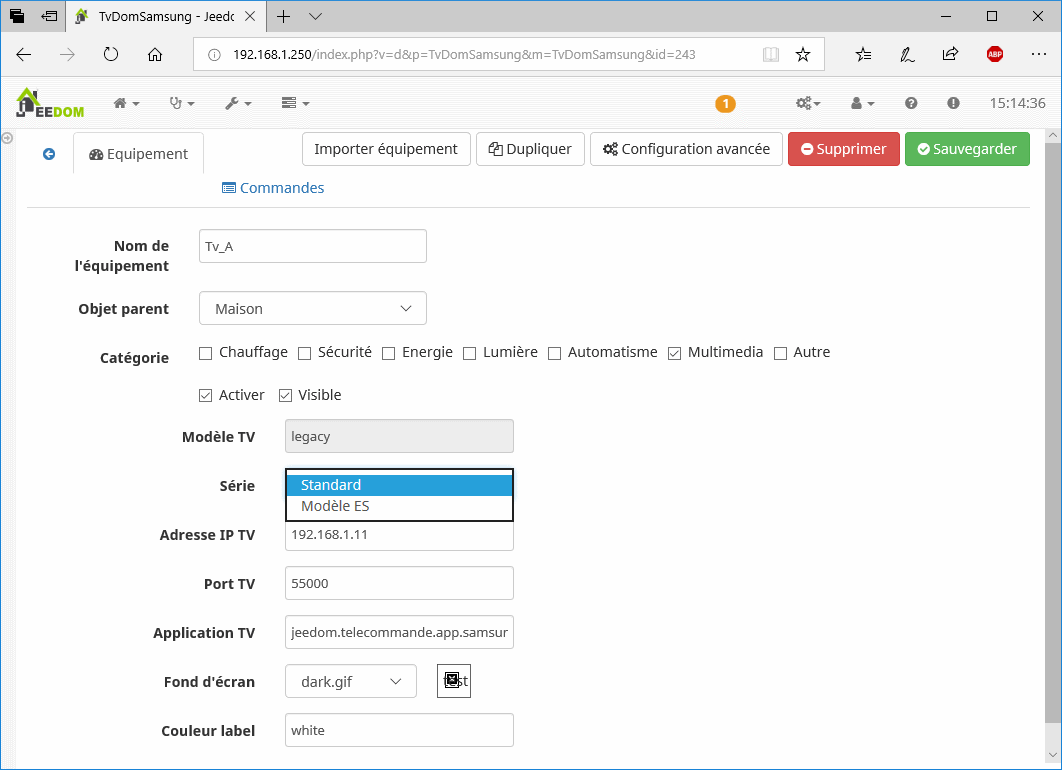
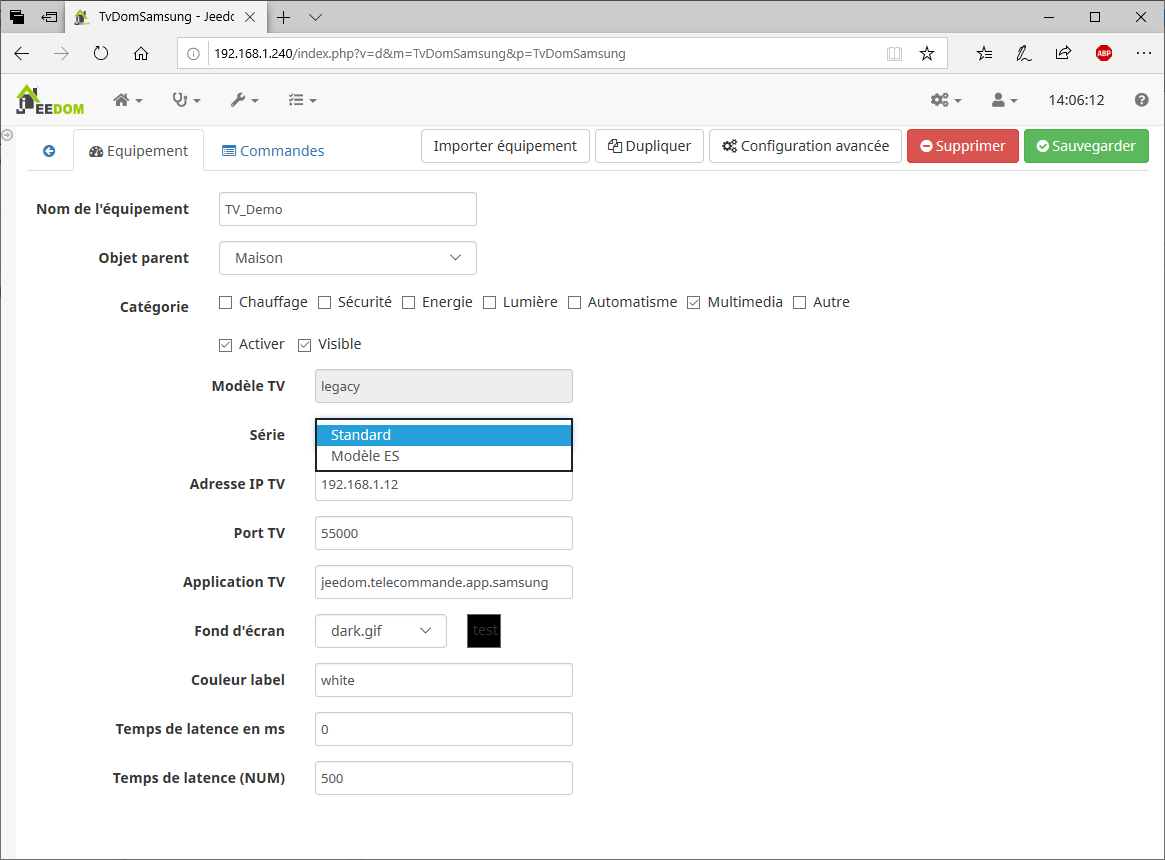
Ajout paramètre latence

diff --git a/fr_FR/index.md b/fr_FR/index.md
@@ -134,6 +134,18 @@ Pour l'instant seules deux séries sont définies. La boîte de sélection perme
 
   Permet de personnaliser al couleur des labels en conjonction avec le fond d'écran.
 
+- ***Temps de latence***
+
+  Il est possible d'envoyer une séquence de touches vers la Tv à partir d'un scénario (voir commande SendKey). 
+  Pour respecter un délai entre l'envoi de chaque touche, un temps de latence est nécessaire. Positionner dans ce paramètre le temps pour les touches non numériques de la télécommande, par exemple : SOURCE, GUIDE, ENTER, etc.
+
+- ***Temps de latence (NUM)***
+
+  Il est possible d'envoyer une séquence de touches vers la Tv à partir d'un scénario (voir commande SendKey). 
+  Pour respecter un délai entre l'envoi de chaque touche, un temps de latence est nécessaire. 
+
+  Positionner dans ce paramètre le temps pour les touches  numériques de la télécommande.
+
 - ***Commandes/Actions***
 
   Six commandes sont définies, elles permettent de piloter la SMART TV dans des scénarios.
@@ -206,6 +218,18 @@ Le panneau de configuration d'un modèle Tizen se présente ainsi :
 - ***Couleur label***
 
   Permet de personnaliser al couleur des labels en conjonction avec le fond d'écran.
+
+- ***Temps de latence***
+
+  Il est possible d'envoyer une séquence de touches vers la Tv à partir d'un scénario (voir commande SendKey). 
+  Pour respecter un délai entre l'envoi de chaque touche, un temps de latence est nécessaire. Positionner dans ce paramètre le temps pour les touches non numériques de la télécommande, par exemple : SOURCE, GUIDE, ENTER, etc.
+
+- ***Temps de latence (NUM)***
+
+  Il est possible d'envoyer une séquence de touches vers la Tv à partir d'un scénario (voir commande SendKey). 
+  Pour respecter un délai entre l'envoi de chaque touche, un temps de latence est nécessaire. 
+
+  Positionner dans ce paramètre le temps pour les touches  numériques de la télécommande.
 
 - ***Commandes/Actions***
 
@@ -550,6 +574,8 @@ Samsung a délivré une mise à jour du firmware de ses SmartTv modèle Tizen en
 
 Ceci a eu pour conséquence de rendre **incompatible la communication entre le plugin et la TV**.
 Ce problème est en cours d'étude.  Il n'est pas recommandé d'acquérir le plugin si vous avez installé le dernier firmware sur votre modèle Tizen.
+
+**Ce problème est résolu depuis la version V1.0.C de décembre 2018.**
 
 
 

diff --git a/en_US/index.md b/en_US/index.md
@@ -113,6 +113,14 @@ For the moment only two series are defined. The selection box allows you to choo
 
 - ***Label color***   Allows you to customize the color of the labels in conjunction with the wallpaper.
 
+- **Latency**
+
+  It is possible to send a key sequence to the TV from a scenario (see SendKey command).To respect a delay between the sending of each key, a latency time is necessary. Set the time in this parameter for the non-numeric keys on the remote control, for example: SOURCE, GUIDE, ENTER, etc.
+
+- **Latency (NUM)**
+
+  It is possible to send a key sequence to the TV from a scenario (see SendKey command).To respect a delay between the sending of each key, a latency time is necessary.In this parameter, set the time for the numeric keys of the remote control.
+
 - ***Controls / Actions*** Six commands are defined, they allow you to control the SMART TV in scenarios.
 
   `Activate`: only used to associate the widget on the dashboard Turn off: TV off command`

diff --git a/fr_FR/changelog.md b/fr_FR/changelog.md
@@ -1,5 +1,9 @@
 # **Change Log**
 
+# 1.0.I Version Beta
+
+- Ajout d'un paramètre de latence pour envoi séquence de touche depuis un scénario.
+
 # 1.0.H Version Beta 
 
 - Correction typo pour fichiers I18n

diff --git a/en_US/changelog.md b/en_US/changelog.md
@@ -1,5 +1,9 @@
 # **Change Log**
 
+# 1.0.I Version Beta
+
+- Addition of a latency parameter for sending key sequence from a scenario.
+
 # 1.0.H Version Beta 
 
 - Typo corrections for  I18n files
